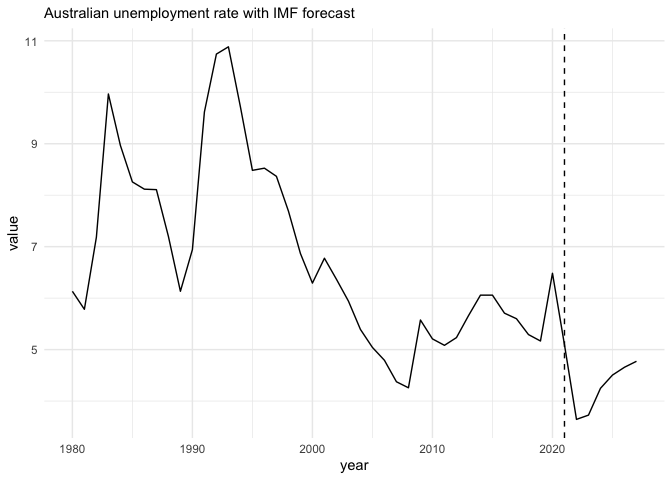
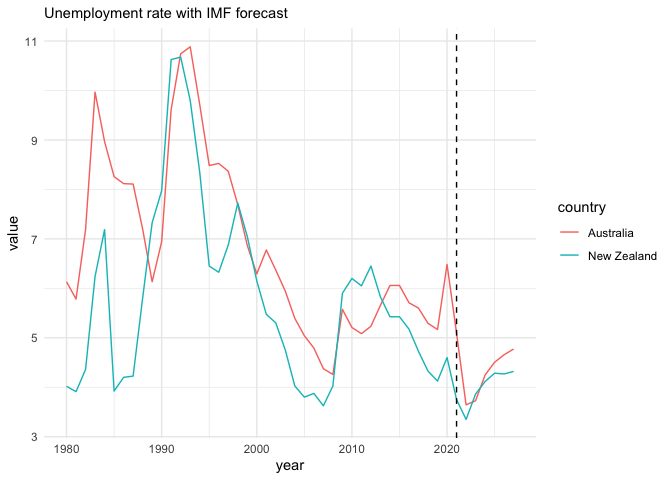
add nz to readme

diff --git a/README.md b/README.md
@@ -14,8 +14,8 @@ experimental](https://img.shields.io/badge/lifecycle-experimental-orange.svg)](h
 ‘experimental’ phase. I do not plan to submit this to CRAN and I offer
 no guarantees that it will continue to work.**
 
-`{readweo}` provides convenience functions to download, import and tidy
-data from the IMF’s World Economic Outlook.
+`{readweo}` helps you download, import and tidy data from the IMF’s
+World Economic Outlook.
 
 ## Installation
 
@@ -57,6 +57,8 @@ weo
 
 `read_weo()` returns a tidy (long) tibble.
 
+You can use it like this:
+
 ``` r
 library(dplyr)
 #> 
@@ -69,14 +71,14 @@ library(dplyr)
 #>     intersect, setdiff, setequal, union
 library(ggplot2)
 weo |> 
-  filter(country == "Australia",
+  filter(country %in% c("New Zealand", "Australia"),
          subject_descriptor == "Unemployment rate") |> 
-  ggplot(aes(x = year, y = value)) +
+  ggplot(aes(x = year, y = value, col = country)) +
   geom_line() +
   geom_vline(aes(xintercept = estimates_start_after),
              linetype = 2) +
   theme_minimal() +
-  labs(subtitle = "Australian unemployment rate with IMF forecast")
+  labs(subtitle = "Unemployment rate with IMF forecast")
 ```
 
 <img src="man/figures/README-unnamed-chunk-3-1.png" width="100%" />
